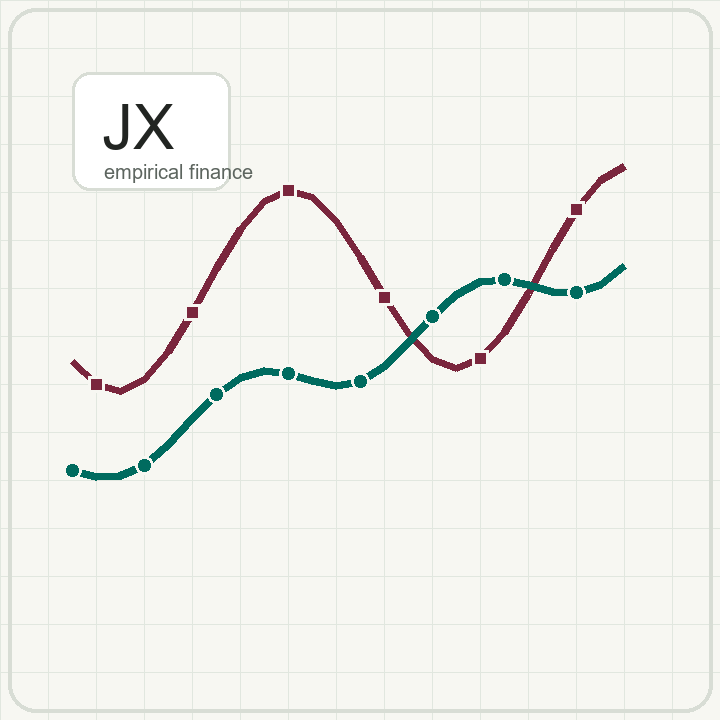
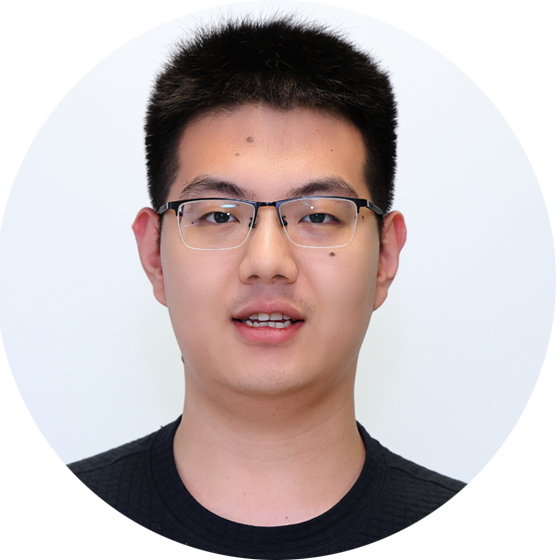
Update PhD profile and research links

diff --git a/_includes/archive-single.html b/_includes/archive-single.html
@@ -42,6 +42,8 @@
           <p> {{ post.type }}, <i>{{ post.venue }}</i>, {{ post.date | default: "1900-01-01" | date: "%Y" }} </p>
         {% elsif post.collection == 'publications' and post.category == 'working' %}
           <p><i>{{ post.venue }}</i></p>
+        {% elsif post.collection == 'publications' and post.category == 'inactive' %}
+          <p><i>{{ post.venue }}</i></p>
         {% elsif post.collection == 'publications' %}
           <p>Published in <i>{{ post.venue }}</i>, {{ post.date | default: "1900-01-01" | date: "%Y" }} </p>
         {% elsif post.date %}
@@ -54,32 +56,29 @@
     <p class="archive__item-excerpt" itemprop="description"><p>{{ post.excerpt | markdownify | remove: '<p>' | remove: '</p>' }}<strong><a href="{{ base_path }}{{ post.url }}" rel="permalink"> Read more</a></strong></p></p>
     {% endif %}
     
-    {% if post.citation and post.paperurl and post.slidesurl and post.bibtexurl %}
-      <p>Recommended citation: {{ post.citation }}<br /><a href="{{ post.paperurl }}">Download Paper</a> | <a href="{{ post.slidesurl }}">Download Slides</a> | <a href="{{ post.bibtexurl }}">Download Bibtex</a></p>
-    {% elsif post.citation and post.paperurl and post.slidesurl %}
-      <p>Recommended citation: {{ post.citation }}<br /><a href="{{ post.paperurl }}">Download Paper</a> | <a href="{{ post.slidesurl }}">Download Slides</a></p>
-    {% elsif post.citation and post.paperurl and post.bibtexurl %}
-      <p>Recommended citation: {{ post.citation }}<br /><a href="{{ post.paperurl }}">Download Paper</a> | <a href="{{ post.bibtexurl }}">Download Bibtex</a></p>
-    {% elsif post.citation and post.paperurl %}
-      <p>Recommended citation: {{ post.citation }}<br /><a href="{{ post.paperurl }}">Download Paper</a></p>
-    {% elsif post.citation and post.slidesurl and post.bibtexurl %}
-      <p>Recommended citation: {{ post.citation }}<br /><a href="{{ post.slidesurl }}">Download Slides</a> | <a href="{{ post.bibtexurl}}">Download Bibtex</a></p>
-    {% elsif post.citation and post.slidesurl %}
-      <p>Recommended citation: {{ post.citation }}<br /><a href="{{ post.slidesurl }}">Download Slides</a></p>
-    {% elsif post.citation and post.bibtexurl %}
-      <p>Recommended citation: {{ post.citation }}<br /><a href="{{ post.bibtexurl }}">Download Bibtex</a></p>
-    {% elsif post.citation %}
-      <p>Recommended citation: {{ post.citation }}</p>
-    {% elsif post.paperurl and post.bibtexurl %}
-      <p><a href="{{ post.paperurl }}">Download Paper</a> | <a href="{{ post.bibtexurl }}">Download Bibtex</a></p>
-    {% elsif post.paperurl %}
-      <p><a href="{{ post.paperurl }}">Download Paper</a></p>
-    {% elsif post.slidesurl and post.bibtexurl %}
-      <p><a href="{{ post.slidesurl }}">Download Slides</a> | <a href="{{ post.bibtexurl }}">Download Bibtex</a></p>
-    {% elsif post.slidesurl %}
-      <p><a href="{{ post.slidesurl }}">Download Slides</a></p>
-    {% elsif post.bibtexurl %}
-      <p><a href="{{ post.bibtexurl }}">Download Bibtex</a></p>
+    {% if post.citation or post.publishedurl or post.ssrnurl or post.paperurl or post.slidesurl or post.bibtexurl %}
+      <p>
+        {% if post.citation %}Recommended citation: {{ post.citation }}{% endif %}
+        {% if post.publishedurl or post.ssrnurl or post.paperurl or post.slidesurl or post.bibtexurl %}
+          {% if post.citation %}<br />{% endif %}
+          {% assign link_written = false %}
+          {% if post.publishedurl %}
+            <a href="{{ post.publishedurl }}">Published version</a>{% assign link_written = true %}
+          {% endif %}
+          {% if post.ssrnurl %}
+            {% if link_written %} | {% endif %}<a href="{{ post.ssrnurl }}">SSRN</a>{% assign link_written = true %}
+          {% endif %}
+          {% if post.paperurl %}
+            {% if link_written %} | {% endif %}<a href="{{ post.paperurl }}">Paper</a>{% assign link_written = true %}
+          {% endif %}
+          {% if post.slidesurl %}
+            {% if link_written %} | {% endif %}<a href="{{ post.slidesurl }}">Slides</a>{% assign link_written = true %}
+          {% endif %}
+          {% if post.bibtexurl %}
+            {% if link_written %} | {% endif %}<a href="{{ post.bibtexurl }}">Bibtex</a>
+          {% endif %}
+        {% endif %}
+      </p>
     {% endif %}
 
   </article>

diff --git a/docs/HANDOFF.md b/docs/HANDOFF.md
@@ -1,6 +1,6 @@
 # Handoff
 
-Last updated: 2026-05-16
+Last updated: 2026-05-26
 
 ## Current Progress
 
@@ -12,7 +12,8 @@ Last updated: 2026-05-16
 - Site is live but intentionally hidden from search engine indexing with `noindex, nofollow, noarchive, nosnippet` in `_includes/head/custom.html`.
 - `robots.txt` exists and notes that search hiding is handled by page-level noindex.
 - Current local Git state before this checkpoint: clean and in sync with `origin/master`.
-- Current requested cleanup removes visible Website/GitHub links, avatar, theme toggle, extra footer links, CV text, and non-TA teaching/service items.
+- Current requested cleanup removes visible Website/GitHub links, theme toggle, extra footer links, CV text, and non-TA teaching/service items.
+- Current identity is first-year PhD student in the School of Accounting and Finance at The Hong Kong Polytechnic University.
 
 ## Completed
 
@@ -20,20 +21,22 @@ Last updated: 2026-05-16
 - Template sample pages, sample posts, sample talks, sample teaching entries, portfolio pages, and sample PDFs were removed.
 - Navigation is simplified to `Research`, `Teaching`, and `CV`.
 - Homepage content lives in `_pages/about.md`.
-- Homepage now includes a brief Education section.
+- Homepage now includes a brief Education section, including the PolyU PhD entry.
 - Research entries live in `_publications/`.
-- Current listed research includes one published Journal of Banking & Finance article and two working papers.
+- Current listed research includes one published Journal of Banking & Finance article, two working papers, and one inactive research item.
 - Teaching page lives in `_pages/teaching.html` and currently shows only the TA entry.
 - CV page lives in `_pages/cv.md` and currently has no visible body text until a CV link/PDF is added.
-- Sidebar/site metadata is configured in `_config.yml`; Website, GitHub, and avatar are currently blank/hidden.
+- Sidebar/site metadata is configured in `_config.yml`; Website and GitHub are currently blank/hidden.
+- Sidebar avatar is enabled with `images/profile.png`, cropped from `C:\Users\12428\Desktop\XU Jin_edited.png`.
+- SSRN profile is set in `_config.yml`.
 - Footer is simplified to only the site last-updated date.
 - Root working folder was cleaned so `C:\BaiduSyncdisk\codex\Personal Website` only contains `github-site`.
 - Project memory files exist: `AGENTS.md`, `docs/PROJECT_MEMORY.md`, `docs/HANDOFF.md`, `docs/DECISIONS.md`, and `docs/ENV_SETUP.md`.
 
 ## Next Steps
 
-1. Add real ORCID URL, Google Scholar URL, and any SSRN/RePEc links to `_config.yml`.
-2. Replace `images/profile.png` with a formal portrait if the user provides one.
+1. Add real ORCID URL, Google Scholar URL, and any RePEc links to `_config.yml`.
+2. Replace or recrop `images/profile.png` if the user wants a different portrait framing.
 3. Add a public CV PDF to `files/` only after removing referee/private information, then link it from `_pages/cv.md`.
 4. Refine homepage bio, research wording, paper summaries, author order, and news items to match finance/economics academic homepage norms.
 5. Decide whether to keep `noindex`, unpublish GitHub Pages temporarily, or replace the live page with a minimal under-construction page.
@@ -41,8 +44,8 @@ Last updated: 2026-05-16
 
 ## Blockers And Risks
 
-- ORCID, Google Scholar, SSRN/RePEc links are still missing.
-- Formal portrait and public CV PDF are still missing.
+- ORCID, Google Scholar, and RePEc links are still missing.
+- Public CV PDF is still missing.
 - The live site is not indexed but remains accessible to anyone with the direct URL.
 - GitHub Pages build status should be checked after future pushes, especially after `_config.yml` or Liquid template changes.
 - GitHub may create automated `talkmap` commits; fetch before pushing if remote history changes.

diff --git a/docs/PROJECT_MEMORY.md b/docs/PROJECT_MEMORY.md
@@ -19,9 +19,9 @@
   - `_pages/` for Home/About, Research, Teaching, CV pages.
   - `_publications/` for one Markdown file per paper.
   - `_includes/head/custom.html` for custom head tags including temporary search hiding.
-  - `images/profile.png` exists but the sidebar avatar is currently disabled.
+  - `images/profile.png` is displayed as the sidebar avatar.
   - `files/` for public CV and paper PDFs.
-- External services: GitHub Pages; future ORCID, Google Scholar, SSRN/RePEc links may be added.
+- External services: GitHub Pages and SSRN profile; future ORCID, Google Scholar, and RePEc links may be added.
 
 ## Local Conventions
 
@@ -49,22 +49,26 @@
 - Current navigation is `Research`, `Teaching`, `CV`; the root page is the About/Home page.
 - Current sidebar identity:
   - Name: Jin Xu
-  - Bio: Empirical Corporate Finance | Empirical Asset Pricing
+  - Bio: First-year PhD Student | Empirical Corporate Finance
   - Location: Hong Kong
-  - Employer: The Chinese University of Hong Kong
+  - Employer: School of Accounting and Finance, The Hong Kong Polytechnic University
   - Email: `jinxu0209@gmail.com`
-- No Website, GitHub, or avatar is displayed in the sidebar.
-- ORCID, Google Scholar, SSRN/RePEc links are not yet filled in.
+- Website and GitHub are not displayed in the sidebar.
+- Sidebar avatar is enabled with `images/profile.png`, generated from `C:\Users\12428\Desktop\XU Jin_edited.png`.
+- SSRN profile is set to `https://papers.ssrn.com/Sol3/Cf_Dev/AbsByAuth.cfm?per_id=6447580`.
+- ORCID, Google Scholar, and RePEc links are not yet filled in.
 - A public CV PDF has not been added yet because the original CV includes private referee information.
 - The CV page is intentionally empty until a public CV link/PDF is added.
 - Teaching page intentionally keeps only the TA entry.
 - The footer intentionally keeps only the site last-updated date.
 - The theme toggle is intentionally hidden.
 - Published paper currently listed:
-  - Xiaoran Ni, Jin Xu, and David Yin. "Are Enhanced Creditor Rights in Bankruptcy Desirable to Shareholders? Evidence from the Cost of Equity Capital." Journal of Banking & Finance, Volume 175, 2025, Article 107442. DOI: `10.1016/j.jbankfin.2025.107442`.
+  - Xiaoran Ni, Jin Xu, and David Yin. "Are Enhanced Creditor Rights in Bankruptcy Desirable to Shareholders? Evidence from the Cost of Equity Capital." Journal of Banking & Finance, Volume 175, 2025, Article 107442. Published page: `https://www.sciencedirect.com/science/article/pii/S0378426625000627`; SSRN: `https://papers.ssrn.com/sol3/papers.cfm?abstract_id=3678059`.
 - Working papers currently listed:
-  - "CEO Rugged Individualism and Workplace Safety"
-  - "Classified Board and Workplace Safety"
+  - "CEO Rugged Individualism and Workplace Safety" with SSRN: `https://papers.ssrn.com/sol3/papers.cfm?abstract_id=4753516`
+  - "The Safety Shield: How Classified Boards Benefit Rank-and-File Employees" with SSRN: `https://papers.ssrn.com/sol3/papers.cfm?abstract_id=4753527`
+- Inactive research currently listed:
+  - "Uncertainty about 'Uncertainty'" with SSRN: `https://papers.ssrn.com/sol3/papers.cfm?abstract_id=5315516`
 
 ## Watchouts
 

diff --git a/_pages/about.md b/_pages/about.md
@@ -9,7 +9,7 @@ redirect_from:
 
 I am a researcher in empirical corporate finance and empirical asset pricing. My current work studies how financial contracting, corporate governance, and managerial background shape firm outcomes, with a particular interest in workplace safety, creditor rights, and the cost of capital.
 
-I am currently a Research Assistant in the Department of Finance at The Chinese University of Hong Kong.
+I am a first-year PhD student in the School of Accounting and Finance at The Hong Kong Polytechnic University (PolyU).
 
 Research Interests
 ======
@@ -23,6 +23,7 @@ Research Interests
 Education
 ======
 
+* **The Hong Kong Polytechnic University**, Ph.D. in Accounting and Finance, 2026-present.
 * **Xiamen University**, M.A. in Quantitative Economics, 2021-2024.
 * **Hunan University**, B.A. in Economics, Finance, 2017-2021.
 * **University of Oxford**, Summer School Visiting Student, 2019.
@@ -32,7 +33,8 @@ Selected Research
 
 * Xiaoran Ni, Jin Xu, and David Yin. "Are Enhanced Creditor Rights in Bankruptcy Desirable to Shareholders? Evidence from the Cost of Equity Capital." *Journal of Banking & Finance*, Volume 175, 2025, Article 107442.
 * Lee Biggerstaff, Jin Xu, Xiaoran Ni, and David Yin. "CEO Rugged Individualism and Workplace Safety." Working paper.
-* Jin Xu, Xiaoran Ni, and David Yin. "Classified Board and Workplace Safety." Working paper.
+* Xiaoran Ni, Jin Xu, and David Yin. "The Safety Shield: How Classified Boards Benefit Rank-and-File Employees." Working paper.
+* Ying Chen, Kotaro Inoue, Yosuke Kimura, Xiangyu Wang, and Jin Xu. "Uncertainty about \"Uncertainty\"." Inactive research.
 
 News
 ======

diff --git a/_publications/2024-classified-board-workplace-safety.md b/_publications/2024-classified-board-workplace-safety.md
@@ -1,12 +1,13 @@
 ---
-title: "Classified Board and Workplace Safety"
+title: "The Safety Shield: How Classified Boards Benefit Rank-and-File Employees"
 collection: publications
 category: working
 permalink: /publication/classified-board-workplace-safety
 excerpt: "This study examines whether classified boards facilitate long-term investment in employee well-being by reducing workplace injury rates."
-date: 2024-01-01
+date: 2025-04-01
 venue: "Working paper. Presented at FMA European 2024."
-citation: "Jin Xu, Xiaoran Ni, and David Yin. &quot;Classified Board and Workplace Safety.&quot; Working paper."
+ssrnurl: "https://papers.ssrn.com/sol3/papers.cfm?abstract_id=4753527"
+citation: "Xiaoran Ni, Jin Xu, and David Yin. &quot;The Safety Shield: How Classified Boards Benefit Rank-and-File Employees.&quot; Working paper."
 ---
 
 This study examines whether classified boards facilitate long-term investment in employee well-being by reducing workplace injury rates.

diff --git a/_publications/2025-jbf-creditor-rights.md b/_publications/2025-jbf-creditor-rights.md
@@ -6,7 +6,8 @@ permalink: /publication/jbf-creditor-rights
 excerpt: "Enhanced creditor rights in bankruptcy can improve shareholder value by increasing borrowing capacity, reducing the cost of equity capital, and lowering information asymmetry and firm risk."
 date: 2025-01-01
 venue: "Journal of Banking & Finance, Volume 175, Article 107442"
-paperurl: "https://doi.org/10.1016/j.jbankfin.2025.107442"
+publishedurl: "https://www.sciencedirect.com/science/article/pii/S0378426625000627"
+ssrnurl: "https://papers.ssrn.com/sol3/papers.cfm?abstract_id=3678059"
 citation: "Xiaoran Ni, Jin Xu, and David Yin. (2025). &quot;Are Enhanced Creditor Rights in Bankruptcy Desirable to Shareholders? Evidence from the Cost of Equity Capital.&quot; <i>Journal of Banking & Finance</i>, 175, 107442."
 ---
 

diff --git a/JINXU_SITE_NOTES.md b/JINXU_SITE_NOTES.md
@@ -10,12 +10,11 @@ This repository has been customized from the AcademicPages template for Jin Xu's
 - `_pages/teaching.html`: teaching and service
 - `_pages/cv.md`: CV-style page
 - `_publications/`: one Markdown file per paper
-- `images/profile.png`: currently not displayed; use only if a formal portrait is added later
+- `images/profile.png`: sidebar portrait, cropped from `C:\Users\12428\Desktop\XU Jin_edited.png`
 - `files/`: public CV and paper PDFs can be placed here
 
 ## Next Updates
 
 - Add the real ORCID URL in `_config.yml`
 - Add the Google Scholar profile URL in `_config.yml` after the profile is created
-- Add and enable a formal photo only if desired
 - Add a public CV PDF to `files/Jin_Xu_CV.pdf`, then link it from `_pages/cv.md`

diff --git a/_publications/2025-uncertainty-about-uncertainty.md b/_publications/2025-uncertainty-about-uncertainty.md
@@ -1,0 +1,13 @@
+---
+title: "Uncertainty about \"Uncertainty\""
+collection: publications
+category: inactive
+permalink: /publication/uncertainty-about-uncertainty
+excerpt: "This project examines how managers' uncertainty attribution in firm disclosures affects stock market uncertainty."
+date: 2025-06-22
+venue: "Inactive research. Available on SSRN."
+ssrnurl: "https://papers.ssrn.com/sol3/papers.cfm?abstract_id=5315516"
+citation: "Ying Chen, Kotaro Inoue, Yosuke Kimura, Xiangyu Wang, and Jin Xu. &quot;Uncertainty about &lsquo;Uncertainty&rsquo;.&quot; Inactive research."
+---
+
+This project examines how managers' uncertainty attribution in firm disclosures affects stock market uncertainty.

diff --git a/_publications/2024-ceo-rugged-individualism.md b/_publications/2024-ceo-rugged-individualism.md
@@ -6,6 +6,7 @@ permalink: /publication/ceo-rugged-individualism
 excerpt: "Using establishment-level panel data, this project studies whether CEOs shaped by a culture of rugged individualism make different workplace safety decisions."
 date: 2024-01-01
 venue: "Working paper. Presented at IAAE 2024, AsianFA 2024, GCFC 2024, and FMA Annual 2024."
+ssrnurl: "https://papers.ssrn.com/sol3/papers.cfm?abstract_id=4753516"
 citation: "Lee Biggerstaff, Jin Xu, Xiaoran Ni, and David Yin. &quot;CEO Rugged Individualism and Workplace Safety.&quot; Working paper."
 ---
 

diff --git a/AGENTS.md b/AGENTS.md
@@ -37,7 +37,7 @@ At the start of a new Codex chat in this project:
 - `_pages/cv.md`: public CV-style content and CV PDF link.
 - `_includes/head/custom.html`: current `noindex` setting.
 - `files/`: public CV and paper PDFs.
-- `images/profile.png`: currently not displayed; only use if the user later asks to add a formal portrait.
+- `images/profile.png`: currently displayed as the sidebar portrait.
 
 ## Before Ending A Work Session
 
